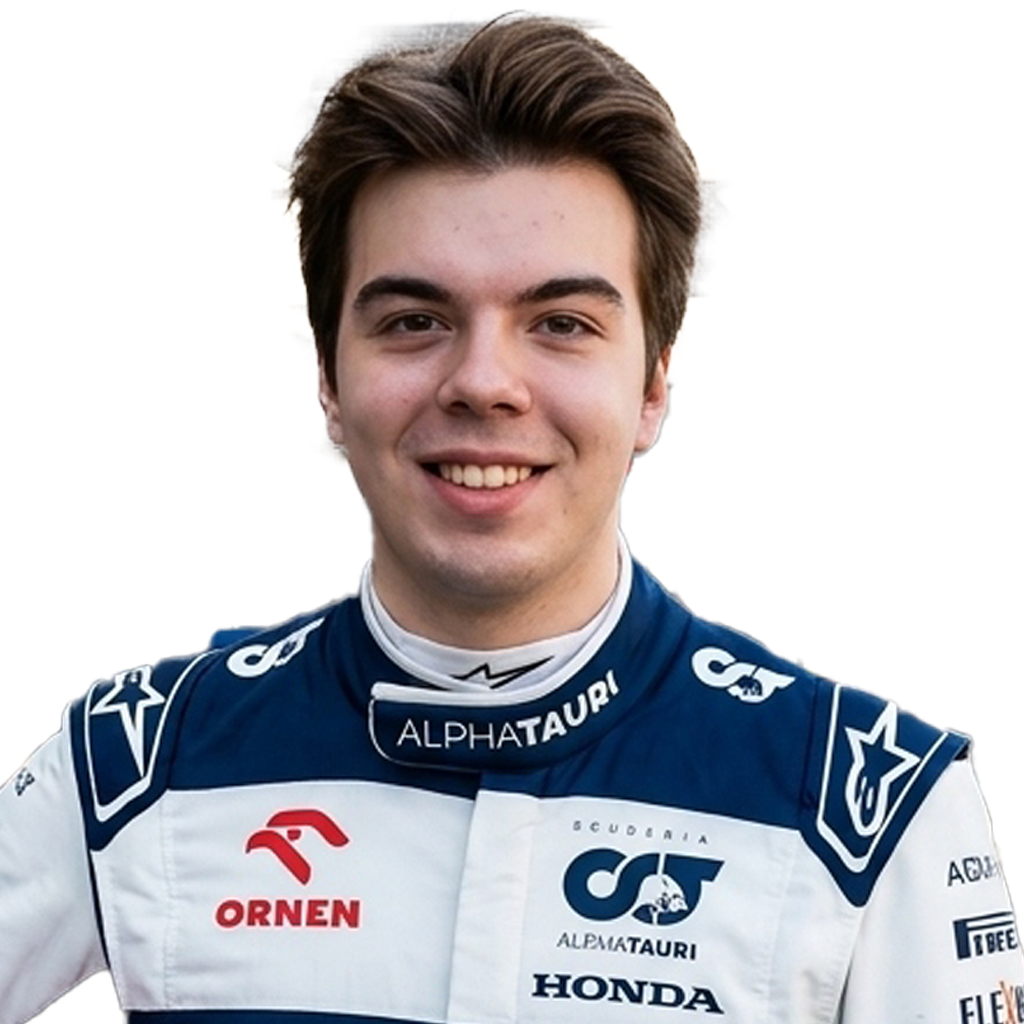
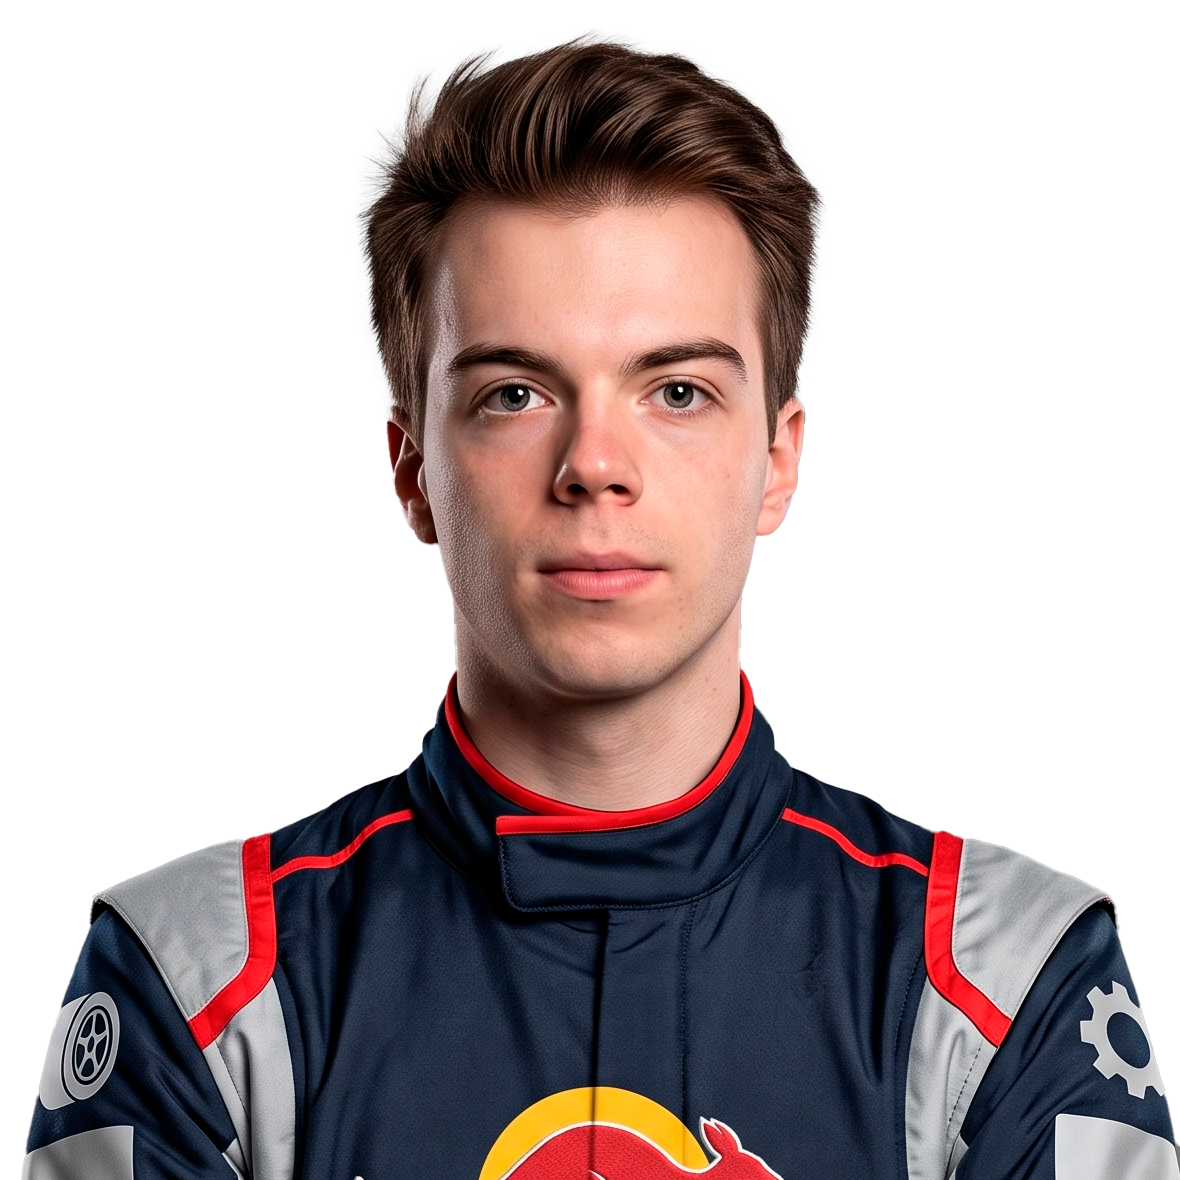
fix: Replace host flag with race country flag and render guaranteed team gradient background with track layout

diff --git a/src/components/F1DriverOfTheDayCard.jsx b/src/components/F1DriverOfTheDayCard.jsx
@@ -4,19 +4,17 @@ import { toPng } from 'html-to-image';
 import { motion } from 'framer-motion';
 import FlagIcon from './FlagIcon';
 
-// High-res real race track / grandstand photos for backgrounds
-const REAL_TRACK_PHOTOS = {
-  'race-1': 'https://images.unsplash.com/photo-1568605117036-5fe5e7bab0b7?q=80&w=1400&auto=format&fit=crop', // Bahrain
-  'race-2': 'https://images.unsplash.com/photo-1541348263662-e08266f92f0a?q=80&w=1400&auto=format&fit=crop', // Jeddah
-  'race-3': 'https://images.unsplash.com/photo-1568605117036-5fe5e7bab0b7?q=80&w=1400&auto=format&fit=crop', // Melbourne
-  'race-4': 'https://images.unsplash.com/photo-1541348263662-e08266f92f0a?q=80&w=1400&auto=format&fit=crop', // Baku
-  'race-5': 'https://images.unsplash.com/photo-1568605117036-5fe5e7bab0b7?q=80&w=1400&auto=format&fit=crop', // Miami
-  'race-6': 'https://images.unsplash.com/photo-1541348263662-e08266f92f0a?q=80&w=1400&auto=format&fit=crop', // Imola
-  'race-7': 'https://images.unsplash.com/photo-1568605117036-5fe5e7bab0b7?q=80&w=1400&auto=format&fit=crop', // Monaco
-  'race-8': 'https://images.unsplash.com/photo-1541348263662-e08266f92f0a?q=80&w=1400&auto=format&fit=crop'  // Spain
+// Host country mapping for each Grand Prix stage
+const RACE_COUNTRY_MAP = {
+  'race-1': { code: 'BH', name: 'BAHRAIN' },
+  'race-2': { code: 'SA', name: 'SAUDI ARABIA' },
+  'race-3': { code: 'AU', name: 'AUSTRALIA' },
+  'race-4': { code: 'AZ', name: 'AZERBAIJAN' },
+  'race-5': { code: 'US', name: 'MIAMI • USA' },
+  'race-6': { code: 'IT', name: 'IMOLA • ITALY' },
+  'race-7': { code: 'MC', name: 'MONACO' },
+  'race-8': { code: 'ES', name: 'SPAIN' }
 };
-
-const DEFAULT_TRACK_PHOTO = 'https://images.unsplash.com/photo-1541348263662-e08266f92f0a?q=80&w=1400&auto=format&fit=crop';
 
 export default function F1DriverOfTheDayCard({ raceTitle, trackImage, fullResults, defaultDriverId, activeRaceId }) {
   const cardRef = useRef(null);
@@ -29,13 +27,19 @@ export default function F1DriverOfTheDayCard({ raceTitle, trackImage, fullResult
   const selectedResult = fullResults.find(r => r.driverId === selectedDriverId) || bestGainDriver;
   const { driver, team, posDiff } = selectedResult;
 
+  // Race host country info
+  const hostCountry = RACE_COUNTRY_MAP[activeRaceId] || {
+    code: 'ES',
+    name: raceTitle.replace(/Grand Prix/i, '').trim().toUpperCase()
+  };
+
   const handleDownload = async () => {
     if (!cardRef.current) return;
     setIsExporting(true);
     try {
       const dataUrl = await toPng(cardRef.current, { quality: 0.98, cacheBust: true });
       const link = document.createElement('a');
-      link.download = `F1_Driver_Of_The_Day_${driver.name.replace(/\s+/g, '_')}_${raceTitle.replace(/\s+/g, '_')}.png`;
+      link.download = `F1_Driver_Of_The_Day_${driver.name.replace(/\s+/g, '_')}_${hostCountry.name}.png`;
       link.href = dataUrl;
       link.click();
     } catch (err) {
@@ -46,7 +50,6 @@ export default function F1DriverOfTheDayCard({ raceTitle, trackImage, fullResult
     }
   };
 
-  const trackPhoto = REAL_TRACK_PHOTOS[activeRaceId] || DEFAULT_TRACK_PHOTO;
   const luxuryEase = [0.16, 1, 0.3, 1];
 
   // Team vibrant colors
@@ -108,7 +111,7 @@ export default function F1DriverOfTheDayCard({ raceTitle, trackImage, fullResult
             minWidth: '960px',
             aspectRatio: '16 / 9',
             minHeight: '580px',
-            background: '#0B0D13',
+            background: '#07090E',
             borderRadius: '24px',
             border: '3px solid #282E40',
             position: 'relative',
@@ -117,41 +120,41 @@ export default function F1DriverOfTheDayCard({ raceTitle, trackImage, fullResult
             color: '#FFF'
           }}
         >
-          {/* Layer 1: Full-screen Real Race Track / Grandstands Photo Background */}
-          <img
-            src={trackPhoto}
-            alt="Real Race Track Background"
-            style={{
-              position: 'absolute',
-              inset: 0,
-              width: '100%',
-              height: '100%',
-              objectFit: 'cover',
-              filter: 'brightness(0.7) contrast(1.2)'
-            }}
-          />
-
-          {/* Layer 2: Team Color Gradient Tint Overlay (Matches official orange/team tint) */}
+          {/* Layer 1: Team Tinted Background Canvas with Circuit Silhouette & Speed Grids */}
           <div style={{
             position: 'absolute',
             inset: 0,
-            background: `linear-gradient(135deg, ${teamPrimaryColor}CC 0%, ${teamAccentColor}E6 100%)`,
-            mixBlendMode: 'multiply',
-            zIndex: 2
+            background: `
+              radial-gradient(circle at 80% 20%, ${teamPrimaryColor}DD 0%, rgba(10,12,18,0.98) 70%),
+              linear-gradient(135deg, ${teamPrimaryColor}AA 0%, ${teamAccentColor}BB 100%),
+              repeating-linear-gradient(45deg, rgba(255,255,255,0.02) 0, rgba(255,255,255,0.02) 14px, transparent 14px, transparent 28px)
+            `,
+            mixBlendMode: 'normal',
+            zIndex: 1
           }} />
 
-          {/* Layer 2.5: Additional Team Color Light Gradient for Warm Broadcast Look */}
-          <div style={{
-            position: 'absolute',
-            inset: 0,
-            background: `radial-gradient(circle at 75% 30%, ${teamPrimaryColor}99 0%, transparent 70%)`,
-            zIndex: 3
-          }} />
+          {/* Layer 1.5: Track Outline Silhouette Background Watermark */}
+          {trackImage && (
+            <img
+              src={trackImage}
+              alt="Track Layout"
+              style={{
+                position: 'absolute',
+                top: '5%',
+                right: '2%',
+                height: '85%',
+                opacity: 0.14,
+                filter: 'invert(1) drop-shadow(0 0 25px rgba(255,255,255,0.3))',
+                pointerEvents: 'none',
+                zIndex: 2
+              }}
+            />
+          )}
 
-          {/* Layer 3: Left Side Standing Driver Portrait Cutout */}
+          {/* Layer 2: Left Side Standing Driver Portrait Cutout */}
           <div style={{
             position: 'absolute',
-            left: '5%',
+            left: '4%',
             bottom: 0,
             height: '96%',
             zIndex: 5,
@@ -170,7 +173,7 @@ export default function F1DriverOfTheDayCard({ raceTitle, trackImage, fullResult
                   height: '100%',
                   maxHeight: '550px',
                   objectFit: 'contain',
-                  filter: 'drop-shadow(0 25px 40px rgba(0,0,0,0.95))'
+                  filter: 'drop-shadow(0 25px 45px rgba(0,0,0,0.95))'
                 }}
               />
             ) : (
@@ -178,13 +181,13 @@ export default function F1DriverOfTheDayCard({ raceTitle, trackImage, fullResult
             )}
           </div>
 
-          {/* Layer 4: Right Side Content (F1 Logo + DRIVER OF THE DAY + Flag + Driver Name) */}
+          {/* Layer 3: Right Side Content (F1 Logo + DRIVER OF THE DAY + Track Host Flag + Driver Name) */}
           <div style={{
             position: 'absolute',
             top: 0,
             right: 0,
             bottom: 0,
-            width: '52%',
+            width: '54%',
             padding: '40px 48px',
             display: 'flex',
             flexDirection: 'column',
@@ -209,21 +212,32 @@ export default function F1DriverOfTheDayCard({ raceTitle, trackImage, fullResult
                 lineHeight: 0.84,
                 letterSpacing: '2px',
                 textTransform: 'uppercase',
-                textShadow: '0 6px 25px rgba(0,0,0,0.7), 0 0 10px rgba(0,0,0,0.5)'
+                textShadow: '0 6px 25px rgba(0,0,0,0.8), 0 0 12px rgba(0,0,0,0.6)'
               }}>
                 DRIVER<br />
                 OF THE<br />
                 DAY
               </div>
 
-              {/* Sub-row: Flag Icon + GP Location Name */}
-              <div style={{ display: 'inline-flex', alignItems: 'center', gap: '10px', marginTop: '20px', background: 'rgba(0,0,0,0.35)', padding: '6px 16px', borderRadius: '6px', backdropFilter: 'blur(4px)' }}>
-                <FlagIcon countryCode={driver.country} style={{ width: '26px', height: '18px', borderRadius: '3px', boxShadow: '0 2px 8px rgba(0,0,0,0.6)' }} />
-                <span style={{ fontSize: '1.1rem', fontWeight: '900', color: '#FFF', textTransform: 'uppercase', letterSpacing: '2px', fontFamily: 'var(--font-f1)' }}>
-                  {raceTitle.replace(/Grand Prix/i, '').trim().toUpperCase()}
+              {/* Sub-row: HOST RACE COUNTRY FLAG + GP LOCATION NAME */}
+              <div style={{
+                display: 'inline-flex',
+                alignItems: 'center',
+                gap: '10px',
+                marginTop: '20px',
+                background: 'rgba(0,0,0,0.55)',
+                border: '1px solid rgba(255,255,255,0.15)',
+                padding: '8px 18px',
+                borderRadius: '8px',
+                backdropFilter: 'blur(8px)',
+                boxShadow: '0 6px 20px rgba(0,0,0,0.6)'
+              }}>
+                <FlagIcon countryCode={hostCountry.code} style={{ width: '28px', height: '19px', borderRadius: '3px', boxShadow: '0 2px 8px rgba(0,0,0,0.6)' }} />
+                <span style={{ fontSize: '1.15rem', fontWeight: '900', color: '#FFF', textTransform: 'uppercase', letterSpacing: '2px', fontFamily: 'var(--font-f1)' }}>
+                  {hostCountry.name}
                 </span>
                 {posDiff > 0 && (
-                  <span style={{ background: '#10B981', color: '#FFF', padding: '2px 8px', borderRadius: '4px', fontSize: '0.75rem', fontWeight: '900' }}>
+                  <span style={{ background: '#10B981', color: '#FFF', padding: '3px 8px', borderRadius: '4px', fontSize: '0.75rem', fontWeight: '900' }}>
                     ▲ +{posDiff} POS
                   </span>
                 )}
